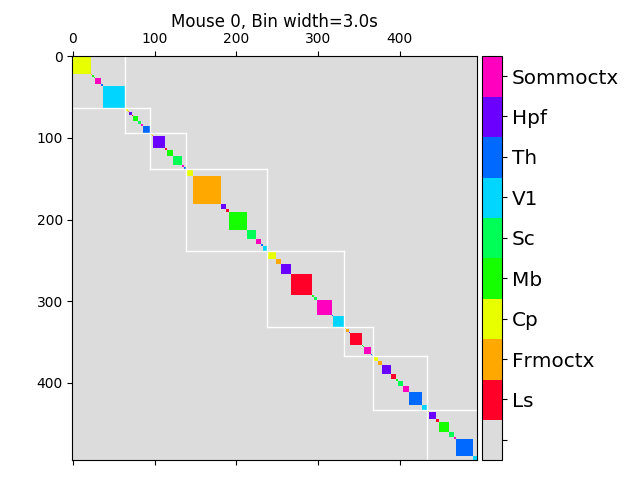
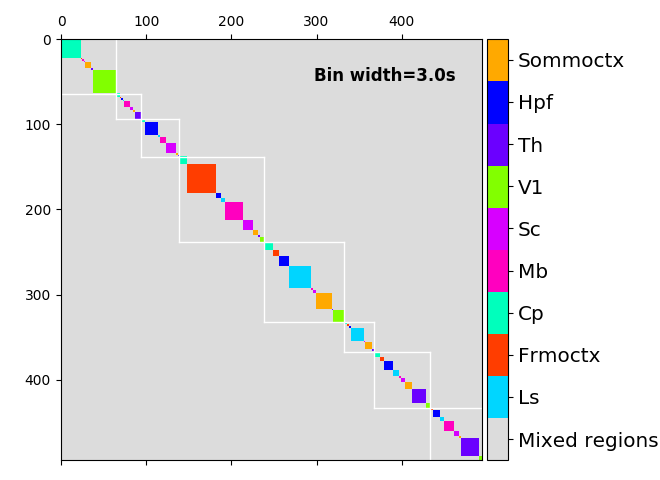
Changed figures and plotting scripts for COSYNE 2020 abstract.

Changed region(s): [[0.0312, 0.0312, 1.0, 0.9688], [0.375, 0.3438, 0.4062, 0.375]]

diff --git a/py/plot_communities.py b/py/plot_communities.py
@@ -59,12 +59,14 @@ def plotRegionalClusterMap(signal_final_cell_info, mouse_name, bin_width):
         regional_cluster_matrix[i,i] = list(required_regions).index(i_region)+1
     sorted_clustering = sorted_final_cell_info['consensus_cluster'].values
     cluster_changes = np.hstack([-0.5, np.flatnonzero(np.diff(sorted_clustering) != 0), sorted_clustering.size-0.5])
-    cmap = colors.ListedColormap(np.vstack([colors.to_rgba('gainsboro'), list(ep.region_to_colour.values())]))
+    cmap = colors.ListedColormap(np.vstack([colors.to_rgba('gainsboro'), list([ep.region_to_colour[region] for region in required_regions])]))
     bounds = range(required_regions.size+2)
     norm = colors.BoundaryNorm(bounds, cmap.N)
-    plt.figure()
+    plt.figure(figsize=(6.6, 4.8))
     ax = plt.gca()
     im = ax.matshow(regional_cluster_matrix, cmap=cmap, norm=norm)
+    x_lim, y_lim = ax.get_xlim()[1], ax.get_ylim()[0]
+    ax.text(0.6*x_lim, -0.05 + 0.1*y_lim, 'Bin width=' + str(bin_width) + 's', fontweight='extra bold', fontsize='large')
     for i in range(cluster_changes.size-2):
         ax.plot([cluster_changes[i+1], cluster_changes[i+1]], [cluster_changes[i], cluster_changes[i+2]], color='white', linewidth=1.0)
         ax.plot([cluster_changes[i], cluster_changes[i+2]], [cluster_changes[i+1], cluster_changes[i+1]], color='white', linewidth=1.0)
@@ -72,8 +74,7 @@ def plotRegionalClusterMap(signal_final_cell_info, mouse_name, bin_width):
     cax = divider.append_axes("right", size="5%", pad=0.05)
     cb = plt.colorbar(im, cax=cax, cmap=cmap, norm=norm, boundaries=bounds, ticks=np.array(bounds)[1:] - 0.5)
     cb.ax.tick_params(labelsize='x-large')
-    cb.set_ticklabels([c.replace('_', ' ').capitalize() for c in [''] + list(required_regions)] )
-    ax.set_title("Mouse name=" + mouse_name + ', Bin width=' + str(bin_width), fontsize='large')
+    cb.set_ticklabels([c.replace('_', ' ').capitalize() for c in ['mixed regions'] + list(required_regions)] )
     plt.tight_layout()
 
 if (not args.debug) & (__name__ == "__main__"):

diff --git a/py/plot_pairwise_regional_correlations.py b/py/plot_pairwise_regional_correlations.py
@@ -59,6 +59,8 @@ def plotWithinAcrossCorr(measure_frame, mouse_name, bin_width, use_title=False):
     plt.xticks(range(0,regions.size+2), np.hstack([[''], regions]), fontsize='x-large', rotation=30)
     plt.ylabel('Mean Corr. Coef.', fontsize='x-large')
     plt.title(mouse_name + ', Bin width=' + str(bin_width), fontsize='x-large') if use_title else None
+    y_lim = plt.ylim()[1]
+    plt.text(6.5, y_lim - 0.1*y_lim, 'Bin width=' + str(bin_width) + 's', fontweight='extra bold', fontsize='x-large')
     plt.tight_layout()
     file_name = os.path.join(image_dir, 'within_between_comparison', mouse_name + '_' + str(bin_width).replace('.','p') + '_corr_comp.png')
     plt.savefig(file_name)
@@ -80,6 +82,6 @@ if (not args.debug) & (__name__ == '__main__'):
             print(dt.datetime.now().isoformat() + ' INFO: ' + file_name + ' saved.')
             file_name = plotMeasureMatrix(mean_corr_shuff_matrix, regions, 'Mean Corr. Coef (Shuffled)', '_corr_shuff', bin_width, vmin=mean_corr_matrix.min(), vmax=mean_corr_matrix.max())
             print(dt.datetime.now().isoformat() + ' INFO: ' + file_name + ' saved.')
-            file_name = plotWithinAcrossCorr(measure_frame, mouse_name, bin_width, use_title=True)
+            file_name = plotWithinAcrossCorr(measure_frame, mouse_name, bin_width, use_title=False)
             print(dt.datetime.now().isoformat() + ' INFO: ' + file_name + ' saved.')
     print(dt.datetime.now().isoformat() + ' INFO: ' + 'Done.')
